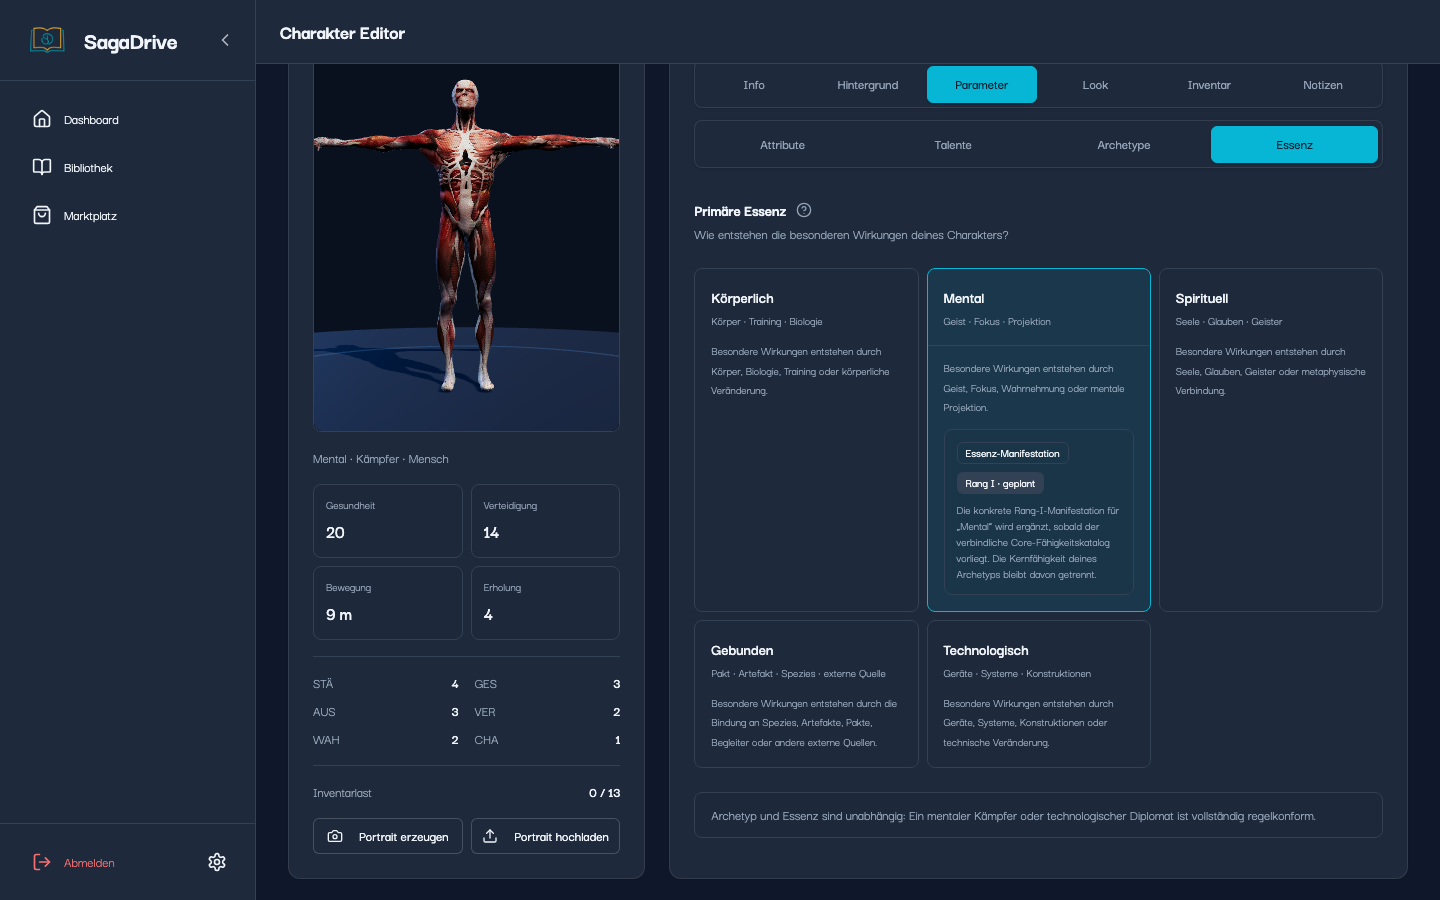
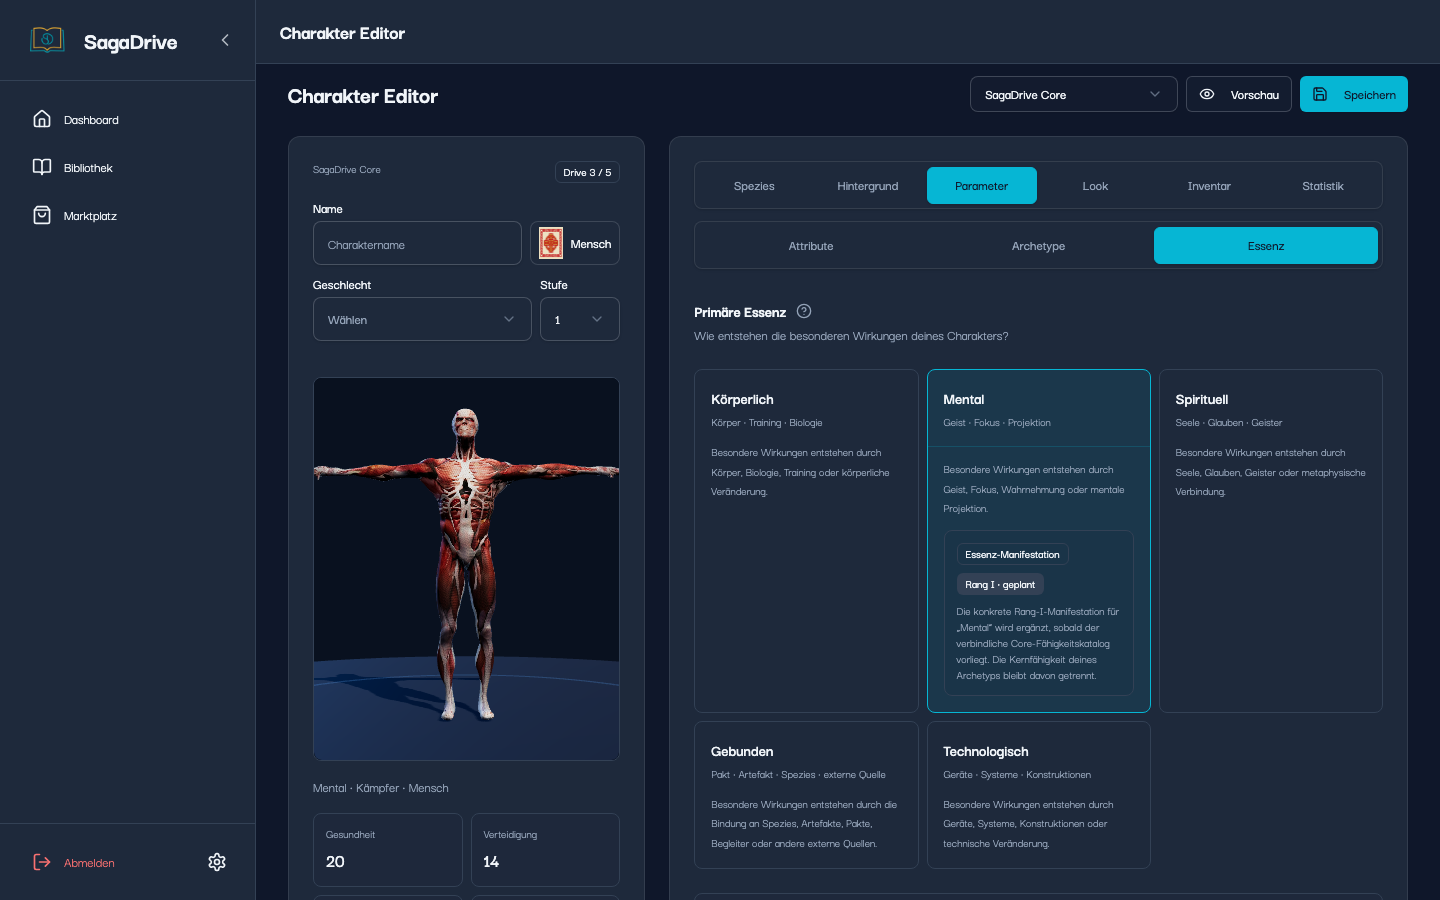
docs(qa): composition HEAD_SHA and Statistik/Notizen evidence

diff --git a/.qa/runs/composition-gate-character-notes-statistics-tab.md b/.qa/runs/composition-gate-character-notes-statistics-tab.md
@@ -1,6 +1,6 @@
 # Composition Gate — character-notes-statistics-tab
 
-- HEAD_SHA: PLACEHOLDER_WILL_SET_AFTER_COMMIT
+- HEAD_SHA: 705a935685fcb0bba3c7094251bae9ad0b8e5171
 - BASE_SHA: a409fbeb36a5bee0c76e055d7b15ffee1d90505f
 - Date: 2026-08-27
 - Verdict: CLEAR
